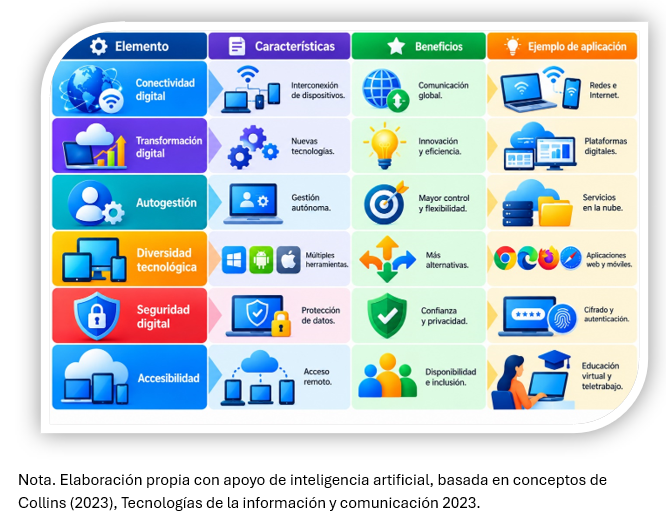
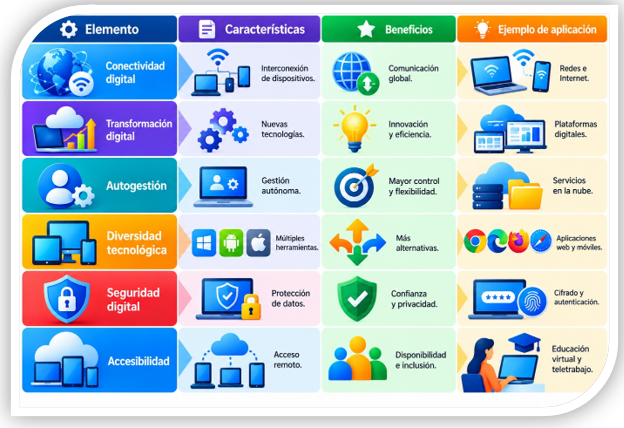
feat(tema-1.2): completar 1.2.2 con el documento fuente y ajustar títulos y notas de las figuras 1 a 5

diff --git a/unidades/unidad-01/temas/tema-01-02.html b/unidades/unidad-01/temas/tema-01-02.html
@@ -105,7 +105,7 @@
               <div class="t-figure__media">
                 <img src="../../../assets/img/Unidad%201/tema-1-2-fig3-internet.jpg" alt="Infografía de Internet y sus principales características en el sector turístico." loading="lazy">
               </div>
-              <p class="t-figure__nota"><em>Nota.</em> Elaboración propia, Internet y sus principales características en el sector turístico fundamentada en los conceptos de conectividad y redes digitales.</p>
+              <p class="t-figure__nota"><em>Nota.</em> Elaboración propia, Internet y sus principales características en el sector turístico fundamentada en los conceptos de innovación tecnológica y herramientas digitales aplicadas al turismo de Bastidas Manzano y Casado Aranda (2023).</p>
             </figure>
 
             <p>
@@ -121,7 +121,13 @@
             </figure>
 
             <p>
-              Con el uso de estas tecnologías se tiene un impacto notable en la rama turística y en los retos del turismo electrónico (<em>e-turismo</em>), donde la comunicación asíncrona permite acceder a datos dentro de portales web incorporando un número creciente de funcionalidades, bases de datos y simuladores que abren nuevas perspectivas de desarrollo.
+              Con el uso de estas tecnologías se tiene un impacto en la rama turística y, con ello, retos del turismo electrónico, cuya relevancia toma curso en la forma de operar, debido a que se introduce en la comercialización de servicios turísticos, como la venta y la distribución de lugares turísticos. De esta forma, se tienen ventajas con los datos que se muestran por este medio, ya que permite su difusión alrededor del mundo sin la necesidad de mover recursos humanos a una exposición o a un mercado turístico, y permite tener la delantera en la gestión de servicios y estancias con mayor calidad que se ofrecen a los clientes.
+            </p>
+            <p>
+              En el ámbito del <em>e-turismo</em> existe un potencial amplio con el uso de aplicaciones de Internet, herramienta que permite a las empresas ofrecer diferentes servicios, como los arribos en aeropuertos o el transporte público a diferentes partes de la zona local o del ámbito internacional, lo que permite que los negocios sean más atractivos en portales web, agencias turísticas virtuales, entre otros. Ahora bien, las redes internas conocidas como <strong>intranets</strong> tienen un papel muy importante para agilizar la administración de los procesos, mejorar los costos de comunicación y permitir que los usuarios internos de un negocio o empresa turística ingresen, de una forma sencilla, a toda la información que necesitan de los diferentes servicios que se ofrecen.
+            </p>
+            <p>
+              Partiendo del uso de estas tecnologías, para la actividad turística se establecen varias situaciones a considerar: desde el uso del <strong>comercio electrónico</strong>, en el que las transacciones de productos o servicios tienen lugar mediante medios electrónicos, así como el uso de la WWW, que ha tenido un mayor éxito, además del acompañamiento de Internet, como se muestra en la siguiente figura.
             </p>
 
             <figure class="t-figure" data-ampliable data-numero="5">
@@ -129,8 +135,15 @@
               <div class="t-figure__media">
                 <img src="../../../assets/img/Unidad%201/tema-1-2-fig5-herramientas.png" alt="Herramientas tecnológicas aplicadas a la actividad turística." loading="lazy">
               </div>
-              <p class="t-figure__nota"><em>Nota.</em> Elaboración propia, herramientas tecnológicas aplicadas a la actividad turística.</p>
+              <p class="t-figure__nota"><em>Nota.</em> Elaboración propia, herramientas tecnológicas aplicadas a la actividad turística, fundamento los conceptos de innovación tecnológica, comercio electrónico y transformación digital del sector turístico abordados por Bastidas Mnazano y Casado Aranda (2023).</p>
             </figure>
+
+            <p>
+              Accedemos a miles de páginas web en el mundo a través de Internet para interactuar con ellas; para esto se requiere un programa que use un medio de seguridad conocido como <strong>HTTPS</strong> (Protocolo Seguro de Transferencia de Hipertexto). Estas páginas web combinan texto, imágenes y audio.
+            </p>
+            <p>
+              La Web ha tenido un auge debido a su protocolo de comunicación y a su lenguaje, lo que le ha permitido atraer rápidamente a innumerables usuarios y proveedores de información. Actualmente, la comunicación asíncrona permite acceder a los datos dentro de estos portales web incorporando un número creciente de funcionalidades, al tiempo que integra otras herramientas, como los protocolos de transferencia de la información, por lo que se ha vuelto más sencillo acceder a ellos. Con ello se han impulsado los procesos de comunicación mediante el uso de herramientas, bases de datos y simuladores, y obtenemos nuevas perspectivas importantes para el futuro en general y específicamente para la educación.
+            </p>
           </section>
 
           <section id="navegadores" data-toc="1.2.3 Navegadores web">

diff --git a/assets/css/tema.css b/assets/css/tema.css
@@ -582,6 +582,7 @@ body:has(.t-viewer[open]) { overflow: hidden; }
   font-size: .8rem;
   line-height: 1.5;
   color: var(--text-muted);
+  min-width: fit-content;
 }
 /* La nota va centrada (en celular, justificada abre huecos).
    Más específico que ".u-page p" de unidades-base.css. */
